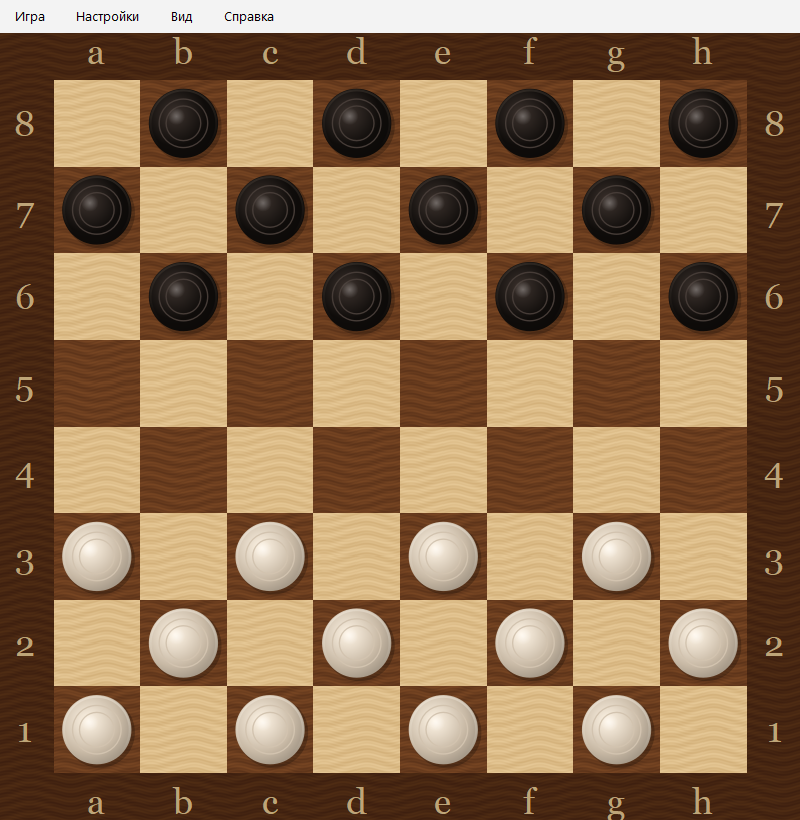
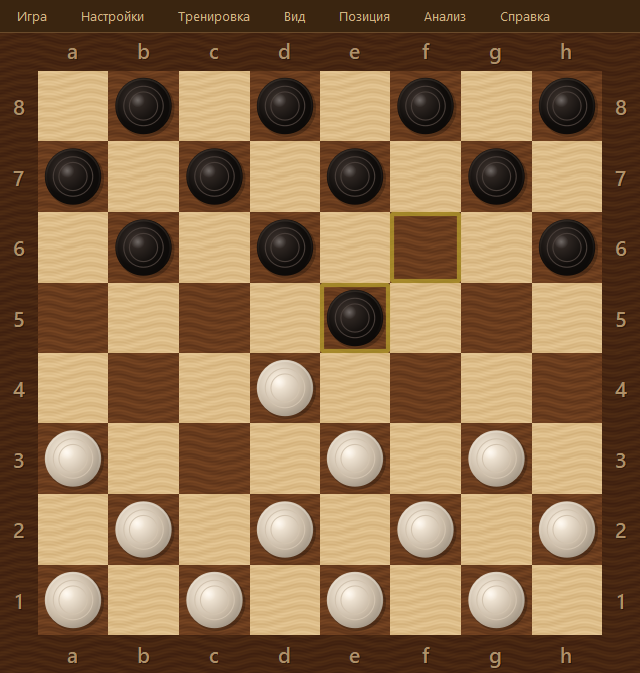
Release v4.0.0 — major update with professional features
Version bump: 3.2.0 → 4.0.0

Major changes since 3.2.0:
- Modular architecture (ai/ package with 6 modules)
- Engine text protocol (UCI-like)
- PDN 3.0 read/write, FEN copy/paste
- Opening book (1572 positions) + endgame bitbase (399K positions)
- Texel-tuned evaluation weights
- FMJD draw rules (1K/2K vs 1K, 15/30-move rules)
- 6 Elo-based difficulty levels
- Analysis pane, game analyzer, puzzle trainer
- Position editor with validation
- 7 TOML themes, coordinate labels
- Persistent settings, centralized menu state management
- 20+ bug fixes including crash fixes and AI improvements

Updated: CHANGELOG.md, README.md, help.txt, screenshot

diff --git a/draughts/__init__.py b/draughts/__init__.py
@@ -1,4 +1,4 @@
 """Draughts - Russian checkers game, rewritten from Borland Pascal 7.0 to Python."""
 
-__version__ = "3.2.0"
+__version__ = "4.0.0"
 __author__ = "Andrey Dugin"

diff --git a/CHANGELOG.md b/CHANGELOG.md
@@ -5,6 +5,77 @@
 Формат основан на [Keep a Changelog](https://keepachangelog.com/ru/1.1.0/),
 версионирование следует [Semantic Versioning](https://semver.org/).
 
+## [4.0.0] — 2026-04-13
+
+### Добавлено
+- **Модульная архитектура** — `ai.py` (1141 строка) разделён на 6 модулей: `ai/search.py`, `ai/eval.py`, `ai/tt.py`, `ai/moves.py`, `ai/state.py`, `ai/elo.py`
+- **Движковый протокол** — `python -m draughts.engine` (UCI-подобный): position, go, stop, setoption, info, bestmove
+- **PDN 3.0** — полная поддержка чтения/записи партий в формате Portable Draughts Notation с `[GameType "25"]` для русских шашек
+- **FEN** — парсинг и генерация FEN-строк для русских шашек 8×8; копирование/вставка через меню Позиция (Ctrl+Shift+C/V)
+- **Дебютная книга** — 1572 позиции из self-play, O(1) lookup по Zobrist-хешу
+- **Эндшпильная база** — 399280 позиций (3 фигуры), WLD retrograde analysis
+- **Texel-тюнинг** — автоматическая оптимизация весов оценки через scipy
+- **Правила ничьей FMJD** — 1K vs 1K, 2K vs 1K (треугольник Петрова), 15-ходовое правило для дамок, 30-ходовое правило без прогресса, 3-кратное повторение позиции
+- **6 уровней сложности** с Elo-рейтингами (~800–~2200+) вместо Любитель/Нормал/Профессионал
+- **Неограниченная отмена** хода на всех уровнях сложности
+- **Подсказка хода** (Ctrl+H) — подсветка лучшего хода с оценкой
+- **Панель анализа** (F3) — оценка, лучший ход, глубина, время в реальном времени
+- **Анализ партии** — автоматические аннотации (!!, !, ?!, ?, ??) с графиком оценки
+- **Тренажёр задач** (Ctrl+P) — 30 тактических задач с автомайнингом из проанализированных партий
+- **Редактор позиций** (E) — расстановка фигур, импорт/экспорт FEN, валидация, авто-превращение пешек
+- **7 TOML-тем** — dark_wood, classic_light, nord_frost, dracula, gruvbox_dark, catppuccin_mocha, solarized_dark
+- **Координаты** — a-h / 1-8 с Segoe UI, тенями и оптическим выравниванием
+- **Hover-подсказки** — точки возможных ходов при наведении курсора (с учётом обязательного взятия)
+- **Подсветка последнего хода** — рамка на клетках from/to
+- **Индикатор раздумий** — "Думаю..." в заголовке окна + курсор ожидания
+- **Сохранение настроек** — preferences в settings.json, загружаются при старте
+- **Централизованное управление меню** — матрица состояний для всех action'ов
+
+### Исправлено
+- **Краш при анализе** — QThread deleteLater без quit/wait вызывал segfault
+- **AI подставлялся** в эндшпиле 2K vs 1K (flat contempt вместо позиционной оценки)
+- **Застревание при правом клике** — нестандартная механика промежуточных позиций заменена на left-click-only
+- **Сохранение крашилось** на difficulty 4-6 (валидация 1-3 не обновлена после расширения)
+- **Game-over проверял не ту сторону** после хода AI
+- **Анализатор партий** — сравнение нотаций разных форматов, завышенный порог аннотаций
+- **Drawn endgame** — 2K vs 1K ошибочно считался выигрышем
+- **TT-флаги** — min-узлы всегда получали LOWER вместо EXACT (rate 11% → 29%)
+- **Hover-точки** показывались для шашек, которые не могут ходить (обязательное взятие)
+- **Disabled пункты меню** визуально не отличались от enabled (добавлена тематическая стилизация)
+- **Настройки терялись** — `use_tuned_eval` сбрасывался при каждом открытии опций
+- **Счётчики ничьей** не сбрасывались при загрузке партий
+
+### Изменено
+- **Ввод ходов** — только левый клик (как lichess/CheckerBoard); правый клик = отмена выбора
+- **Дефолтные настройки** по стандартам индустрии: difficulty 3 (~1400), подсветка хода ON, hover ON, координаты ON
+- **Удалён таймер** — кумулятивное время не актуально для человек-vs-AI
+- **About dialog** — динамические версия и автор из `__version__` / `__author__`
+- **APP_NAME** и `__author__` — вынесены в константы, убран хардкод
+
+### Удалено
+- **Правый клик для промежуточных позиций** — нестандартная механика, вызывала баг
+- **Таймер (D19)** — тулбар, сигналы, счётчики, настройка show_clock
+- **messages.txt** — случайные фразы AI при раздумьях
+
+### Архитектура
+```
+draughts/
+├── app/controller.py    # Qt glue: game state, turns, AI thread
+├── game/
+│   ├── board.py         # Board + rules + check_game_over (shared)
+│   ├── ai/              # 6 modules: search, eval, tt, moves, state, elo
+│   ├── pdn.py           # PDN 3.0 read/write
+│   ├── fen.py           # FEN parse/emit
+│   ├── analysis.py      # Position analysis
+│   ├── headless.py      # Headless game engine
+│   └── save.py          # JSON save/load
+├── engine/              # Text protocol (no Qt dependency)
+├── ui/                  # PyQt6 widgets + TOML theme engine
+├── themes/              # 7 TOML theme files
+├── tools/               # Headless renderer
+└── resources/           # Book, bitbase, tuned weights, help
+```
+
 ## [3.2.0] — 2026-04-11
 
 ### Добавлено
@@ -21,7 +92,6 @@
 - **Оценка**: связанные пешки, фазовые веса (дебют/эндшпиль), золотые углы, централизация дамок
 - **Color enum** (`Color.BLACK`, `Color.WHITE`) — типобезопасная замена строк `"b"`/`"w"`
 - **AIEngine класс** — инкапсуляция параметров AI поиска
-- Правила версионирования и обновления документации в CLAUDE.md
 - 11 тестов CLI, 2 теста превращения при взятии, 6 тестов AIEngine
 
 ### Исправлено
@@ -48,7 +118,6 @@
 ### Изменено
 - Минимальный UI: только доска + стандартное меню Windows
 - Удалены: splash screen, анимации, звуки, status bar, таймер, база обучения
-- Чистый алгоритмический AI (alpha-beta minimax) без Monte Carlo
 
 ### Удалено
 - Learning database (AI теперь чисто алгоритмический)
@@ -92,4 +161,3 @@
 
 ### Историческая справка
 - Оригинал: Borland Pascal 7.0 (~1998–2000), автор: Andrey Dugin
-- Полный анализ оригинального кода: [ANALYSIS.md](ANALYSIS.md)
